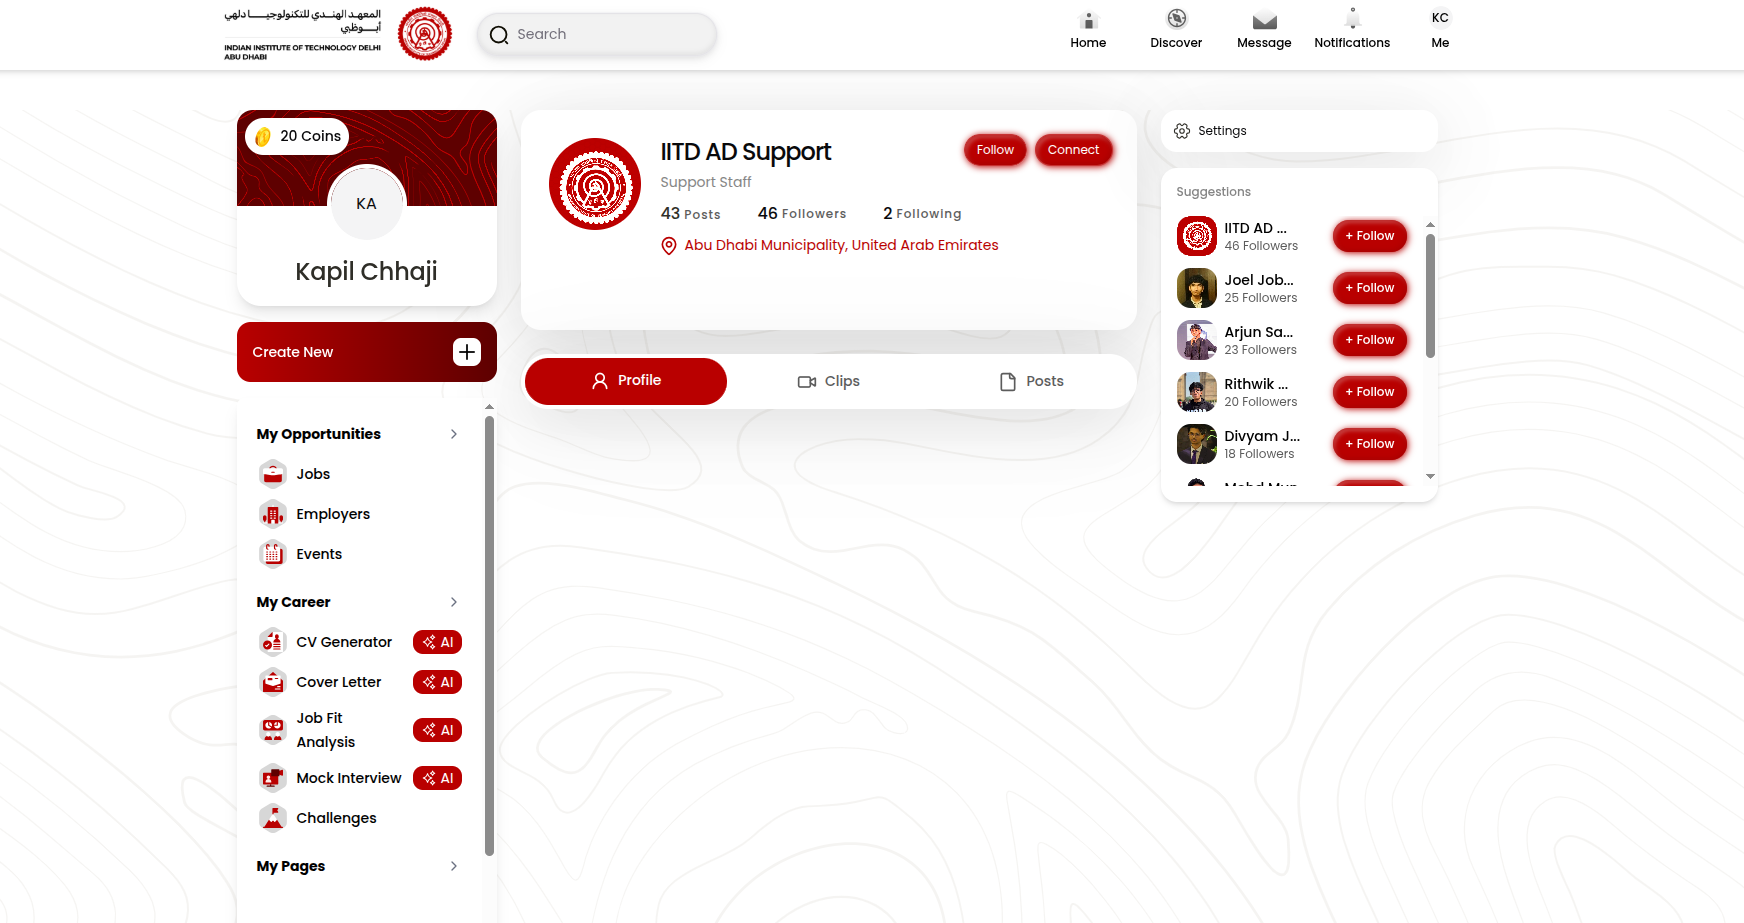
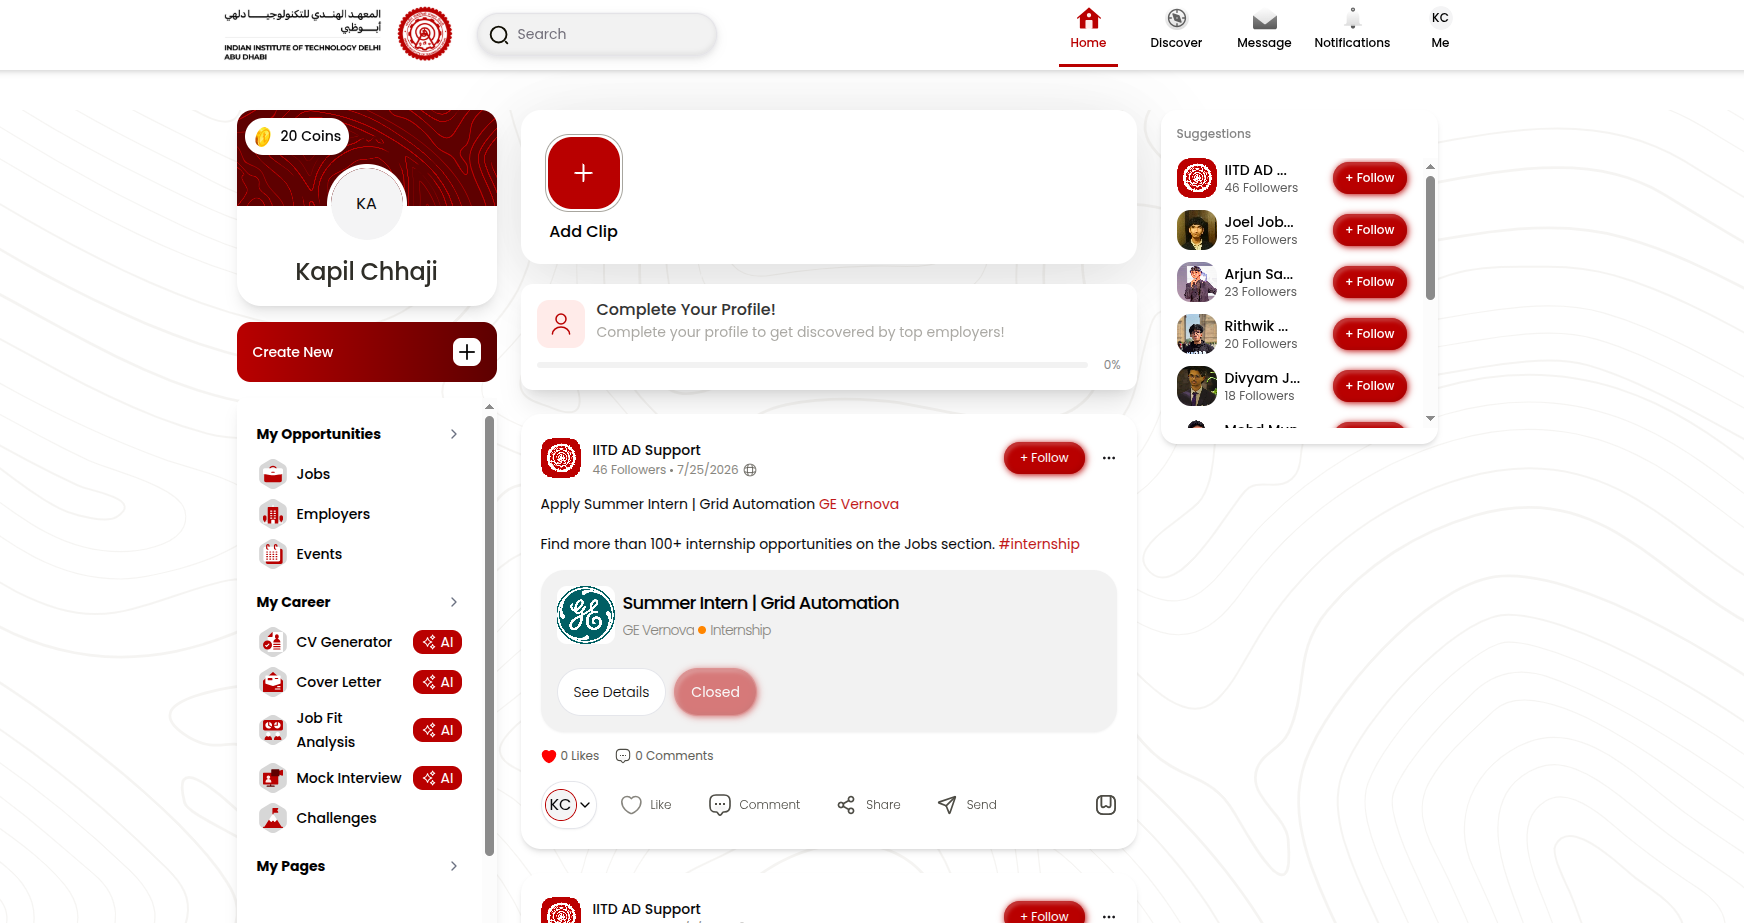
Update Site source

diff --git a/app/page.tsx b/app/page.tsx
@@ -11,6 +11,7 @@ type Project = {
   id: string; number: string; name: string; category: string; description: string;
   image: string; imageAlt?: string; imageFrame?: "portrait"; screenshot?: boolean; color: string; tags: string[]; platforms: string[]; highlight: string;
   summary: string; features: string[]; stack: string[];
+  gallery?: { src: string; alt: string; caption: string; width: number; height: number }[];
 };
 
 const projects: Project[] = [
@@ -25,11 +26,11 @@ const projects: Project[] = [
   },
   {
     id: "livescore", number: "02", name: "LiveScorebyKickScore", category: "CLOSER TO THE GAME",
-    description: "Real-time scores. Real communities. 20K+ users.", image: "/assets/kickscore.png", color: "navy",
+    description: "Real-time scores. Real communities. 50k users.", image: "/assets/kickscore.png", color: "navy",
     imageAlt: "KickScore fantasy football screen showing a team lineup on the pitch beneath the Build Dream Team heading.", imageFrame: "portrait", screenshot: true,
-    tags: ["React Native", "Expo", "Firebase"], platforms: ["mobile", "web"], highlight: "20K+ ANDROID USERS",
+    tags: ["React Native", "Expo", "Firebase"], platforms: ["mobile", "web"], highlight: "50k ANDROID USERS",
     summary: "A live sports and entertainment app bringing football and basketball updates, personalised feeds, and fan communities together. Built as the sole developer.",
-    features: ["Shipped to 20K+ Android and 100+ iOS users, reaching the Android milestone organically with zero paid acquisition.", "Delivered real-time scores using optimised API polling and efficient Redux Toolkit state management.", "Built follow relationships, personalised feeds, and club-based communities.", "Implemented one-to-one, group, and club chat with Firebase and FCM notifications, plus Firebase Analytics and AdMob monetisation."],
+    features: ["Shipped to 50k Android and 100+ iOS users, reaching the Android milestone organically with zero paid acquisition.", "Delivered real-time scores using optimised API polling and efficient Redux Toolkit state management.", "Built follow relationships, personalised feeds, and club-based communities.", "Implemented one-to-one, group, and club chat with Firebase and FCM notifications, plus Firebase Analytics and AdMob monetisation."],
     stack: ["React Native", "Expo", "TypeScript", "Redux Toolkit", "Firebase", "AdMob"],
   },
   {
@@ -44,7 +45,8 @@ const projects: Project[] = [
   {
     id: "career", number: "04", name: "IIT Abu Dhabi Career Platform", category: "CONNECTING WHAT’S NEXT",
     description: "A shared space for careers, connections, and opportunity.", image: "/assets/iit-abu-dhabi.png", color: "blue",
-    imageAlt: "IIT Abu Dhabi career platform showing a support profile, job links, career tools, and suggested connections.", screenshot: true,
+    imageAlt: "IIT Abu Dhabi home feed showing an internship opportunity, profile completion, career tools, and suggested connections.", screenshot: true,
+    gallery: [{ src: "/assets/iit-abu-dhabi-profile.png", alt: "IIT Abu Dhabi support profile with follow and connect buttons, career tools, and suggested connections.", caption: "Profile and connections", width: 1744, height: 923 }],
     tags: ["Next.js", "TypeScript", "Firebase"], platforms: ["web"], highlight: "CAREERS · COMMUNITY · CONNECTIONS",
     summary: "A career and community platform connecting students, recruiters, and administrators. Contributed to the full-stack platform and its communication features.",
     features: ["Contributed to a full-stack career platform built with Next.js, React, and TypeScript.", "Implemented Firebase Realtime Database chat and FCM push notifications, sharing messaging patterns with the mobile apps.", "Integrated Firebase Auth with role-based access for students, recruiters, and admins.", "Used JWT session management to support authenticated platform experiences."],
@@ -109,7 +111,7 @@ function HeroVisual() {
         <div className="score-community"><div className="community-avatars"><i>J</i><i>A</i><i>R</i></div><span>Big game. Bigger conversations.<small>Join your club’s conversation →</small></span></div>
         <div className="score-bottom"><span><Globe2 size={15} /><small>Discover</small></span><span><Radio size={15} /><small>Live</small></span><span><Layers3 size={15} /><small>Clubs</small></span></div>
       </div>
-      <div className="float-badge users-badge"><span className="badge-icon"><Sparkles size={18} /></span><div><strong>20K+</strong><span>users and counting</span></div><span className="mini-chart">▂▃▅▆▇</span></div>
+      <div className="float-badge users-badge"><span className="badge-icon"><Sparkles size={18} /></span><div><strong>50k</strong><span>users and counting</span></div><span className="mini-chart">▂▃▅▆▇</span></div>
       <div className="float-badge platform-badge"><div className="platform-symbol"><Code2 size={17} /></div><div><strong>One codebase.</strong><span>Endless possibilities.</span></div></div>
       <span className="art-caption">A FEW PIXELS. A LOT OF POSSIBILITY.</span>
     </div>
@@ -138,7 +140,7 @@ function ProjectDialog({ project, onClose }: { project: Project; onClose: () => 
       <div className="dialog-inner">
         <button ref={closeRef} className="dialog-close icon-button" onClick={onClose} aria-label="Close project details"><X size={22} /></button>
         <div className={`dialog-image ${project.color}${project.screenshot ? " project-screenshot" : ""}`}><ProjectImage project={project} /></div>
-        <div className="dialog-copy"><span className="eyebrow">PROJECT {project.number} / {project.category}</span><h2 id="project-title">{project.name}</h2><p className="dialog-summary">{project.summary}</p><h3>What I worked on</h3><ul>{project.features.map(feature => <li key={feature}><Check size={16} /><span>{feature}</span></li>)}</ul><h3>Built with</h3><div className="tags">{project.stack.map(tag => <span key={tag}>{tag}</span>)}</div>{!project.screenshot && <p className="illustration-note">Interface illustrations are conceptual; project details are based on my production work.</p>}<a className="button button-dark" href={`mailto:pramodchakraworty618@gmail.com?subject=${encodeURIComponent(`Let’s talk about ${project.name}`)}`}>Let’s talk about this project<ArrowUpRight size={17} /></a></div>
+        <div className="dialog-copy"><span className="eyebrow">PROJECT {project.number} / {project.category}</span><h2 id="project-title">{project.name}</h2><p className="dialog-summary">{project.summary}</p><h3>What I worked on</h3><ul>{project.features.map(feature => <li key={feature}><Check size={16} /><span>{feature}</span></li>)}</ul><h3>Built with</h3><div className="tags">{project.stack.map(tag => <span key={tag}>{tag}</span>)}</div>{project.gallery && <div className="project-gallery">{project.gallery.map(image => <figure key={image.src}><img src={image.src} alt={image.alt} width={image.width} height={image.height} loading="lazy" /><figcaption>{image.caption}</figcaption></figure>)}</div>}{!project.screenshot && <p className="illustration-note">Interface illustrations are conceptual; project details are based on my production work.</p>}<a className="button button-dark" href={`mailto:pramodchakraworty618@gmail.com?subject=${encodeURIComponent(`Let’s talk about ${project.name}`)}`}>Let’s talk about this project<ArrowUpRight size={17} /></a></div>
       </div>
     </dialog>
   );
@@ -253,7 +255,7 @@ export default function Home() {
           <div className="container experience-grid">
             <div className="experience-heading" data-reveal><span className="eyebrow"><span className="tiny-dot" />THE JOURNEY SO FAR / 04</span><h2>Learning.<br />Building.<br /><em>Shipping.</em></h2><p>Every release is a lesson.<br />Every challenge, a chance to grow.</p><a className="button button-outline-light" href="/Pramod_Chakraworty_Resume.pdf" download>Get the full résumé <ArrowDownToLine size={16} /></a></div>
             <div className="timeline">
-              <article className="timeline-item" data-reveal><div className="timeline-marker"><span /></div><div className="timeline-top"><span className="timeline-label">PROFESSIONAL EXPERIENCE</span><span className="experience-pill">1.6 years</span></div><h3>Software Developer</h3><p className="company">Ideal IT Techno Pvt. Ltd. <ArrowUpRight size={15} /></p><span className="timeline-location">Indore, India · On-site</span><p className="timeline-text">Building production apps with React Native & Next.js, taking ownership from the first architectural decision to release day.</p><ul className="experience-points"><li><ChevronRight size={15} />Shipped apps reaching 20K+ active users.</li><li><ChevronRight size={15} />Built offline readers, real-time chat, and streaming.</li><li><ChevronRight size={15} />Owned releases across four app stores.</li><li><ChevronRight size={15} />Led end-to-end delivery of 3 mobile apps concurrently.</li></ul><div className="tags dark-tags"><span>React Native</span><span>Next.js</span><span>TypeScript</span><span>Firebase</span></div></article>
+              <article className="timeline-item" data-reveal><div className="timeline-marker"><span /></div><div className="timeline-top"><span className="timeline-label">PROFESSIONAL EXPERIENCE</span><span className="experience-pill">1.6 years</span></div><h3>Software Developer</h3><p className="company">Ideal IT Techno Pvt. Ltd. <ArrowUpRight size={15} /></p><span className="timeline-location">Indore, India · On-site</span><p className="timeline-text">Building production apps with React Native & Next.js, taking ownership from the first architectural decision to release day.</p><ul className="experience-points"><li><ChevronRight size={15} />Shipped apps reaching 50k active users.</li><li><ChevronRight size={15} />Built offline readers, real-time chat, and streaming.</li><li><ChevronRight size={15} />Owned releases across four app stores.</li><li><ChevronRight size={15} />Led end-to-end delivery of 3 mobile apps concurrently.</li></ul><div className="tags dark-tags"><span>React Native</span><span>Next.js</span><span>TypeScript</span><span>Firebase</span></div></article>
               <article className="timeline-item education-item" data-reveal><div className="timeline-marker"><span /></div><div className="timeline-top"><span className="timeline-label">WHERE IT STARTED</span><span className="education-date">2019 — 2023</span></div><h3>B.Tech, Information Technology</h3><p className="company">University Institute of Technology, RGPV</p><span className="timeline-location">Indore, India · July 2019 – June 2023</span></article>
             </div>
           </div>

diff --git a/app/globals.css b/app/globals.css
@@ -11,6 +11,7 @@
 .section-heading{display:flex;align-items:flex-end;justify-content:space-between;gap:35px;margin-bottom:38px}.section-heading h2,.about-intro h2{font-size:44px;line-height:1.18;font-weight:500;letter-spacing:-1.9px;margin-top:23px}.section-heading h2 em,.about-intro h2 em{font-family:Georgia,'Times New Roman',serif;font-weight:400;color:var(--green);letter-spacing:-1.4px}.section-heading>p{font-size:12px;line-height:1.9;color:var(--muted);padding-bottom:5px;min-width:252px}.work-toolbar{display:flex;align-items:center;justify-content:space-between;margin-bottom:30px;padding-top:4px}.project-filters{display:flex;gap:5px}.project-filters button{display:flex;align-items:center;gap:13px;border-radius:4px;background:transparent;font-size:10px;font-weight:550;padding:10px 15px;color:#777d70;transition:background .25s,color .25s}.project-filters button span{font-size:8px;opacity:.65}.project-filters button.selected{background:#e4e9db;color:#3f5336}.project-filters button:hover{background:#e9ece2;color:#34442b}.work-note{display:flex;align-items:center;gap:7px;font-size:7px;letter-spacing:1.3px;color:#68745d}.work-note>span{width:4px;height:4px;background:#8ea077;border-radius:50%}.project-grid{display:grid;grid-template-columns:1fr 1fr;column-gap:30px;row-gap:48px}.project-card{min-width:0}.project-art{position:relative;width:100%;aspect-ratio:1.44;border-radius:10px;overflow:hidden;display:block;text-align:left;background:#dde7d0}.project-art>img{width:100%;height:100%;object-fit:cover;transition:transform .7s cubic-bezier(.25,.6,.25,1);mix-blend-mode:multiply}.sage{background:#e0e9d6}.lavender{background:#e4dfec}.peach{background:#eedfd5}.blue{background:#dde7e9}.project-number{position:absolute;top:21px;left:23px;font-size:9px;font-weight:600;z-index:3;color:#58674f}.project-highlight{position:absolute;right:21px;top:23px;font-size:6px;letter-spacing:1.1px;z-index:3;color:#6f7669}.project-view{position:absolute;bottom:20px;right:20px;display:flex;align-items:center;gap:15px;background:#f8f8f1ed;padding:12px 15px;border-radius:5px;box-shadow:0 5px 12px #242b2410;font-size:10px;font-weight:600;transform:translateY(70px);transition:transform .3s}.project-art:hover>img,.project-art:focus-visible>img{transform:scale(1.035)}.project-art:hover .project-view,.project-art:focus-visible .project-view{transform:translateY(0)}.project-info{display:flex;align-items:center;justify-content:space-between;margin-top:22px;gap:15px}.project-category{font-size:7px;letter-spacing:1.6px;color:#66715c;font-weight:600}.project-info h3{font-size:21px;font-weight:600;letter-spacing:-.75px;margin-top:9px}.project-info h3 button{background:transparent;text-align:left;padding:0}.project-info h3 button:hover{color:var(--green)}.project-arrow{border:1px solid #d7ddce;width:37px;height:37px;border-radius:50%;flex-shrink:0;transition:background .25s,transform .25s}.project-arrow svg{width:18px}.project-arrow:hover{background:var(--sage);transform:rotate(6deg)}.project-description{font-size:12px;color:#66715d;line-height:1.7;margin-top:9px}.project-tags{margin-top:15px}.project-tags>span{font-size:8px;padding:5px 9px;border-color:#e0e3d8;color:#65705b}.project-footnote{font-size:9px;color:#68735d;text-align:center;margin-top:45px}
 .navy{background:#001126}.black{background:#000}.project-art.project-screenshot{padding:40px 12px 12px}.project-art.project-screenshot>img{display:block;object-fit:contain;mix-blend-mode:normal}.project-screenshot .project-number,.project-screenshot .project-highlight{color:#d6deea}.dialog-image.project-screenshot{height:auto}.dialog-image.project-screenshot>img{display:block;height:auto;max-height:560px;object-fit:contain}
 .project-portrait{display:block;height:100%;aspect-ratio:374/806;margin-inline:auto;overflow:hidden}.project-portrait>img{display:block;width:100%;height:100%;object-fit:cover;object-position:49.93007% 50%}.dialog-image .project-portrait{height:560px;max-height:70svh}.project-screenshot.blue .project-number,.project-screenshot.blue .project-highlight{color:#58674f}
+.project-gallery{display:grid;gap:16px;margin-top:28px}.project-gallery figure{margin:0;overflow:hidden;border:1px solid var(--line);border-radius:8px;background:#fff}.project-gallery img{display:block;width:100%;height:auto}.project-gallery figcaption{padding:10px 12px;font-size:10px;color:var(--muted)}
 /* About */
 .about-section{background:#e9eddf;border-top:1px solid #e3e7d8;border-bottom:1px solid #e3e7d8;padding:90px 0 55px}.about-grid{display:grid;grid-template-columns:1fr 1fr;column-gap:90px;row-gap:57px}.about-intro h2{font-size:42px;margin-top:26px}.about-signature{display:flex;align-items:center;gap:37px;margin-top:36px;color:#6d805b}.about-signature>span{font-family:Georgia,serif;font-size:45px;letter-spacing:-3px;font-style:italic;transform:rotate(-8deg)}.about-signature>svg{transform:rotate(20deg)}.about-location{display:flex;align-items:center;gap:8px;font-size:8px;letter-spacing:1.2px;color:#637155;margin-top:32px}.about-copy{padding-top:36px;max-width:440px}.about-copy .about-lead{font-size:24px;font-weight:500;color:#3b4833;line-height:1.45;letter-spacing:-.6px;margin-bottom:21px}.about-lead>span{color:#71845d}.about-copy>p{font-size:13px;line-height:1.95;color:#5e6a53;margin-bottom:15px}.about-copy .text-link{margin-top:10px;font-size:10px;gap:22px}.stats-row{grid-column:1/-1;display:grid;grid-template-columns:repeat(3,1fr) .85fr;border-top:1px solid #cfd7c3;padding-top:35px}.stats-row>div{display:flex;flex-direction:column;border-right:1px solid #d5ddca;padding-left:40px}.stats-row>div:first-child{padding-left:0}.stats-row>div>strong{font-size:46px;font-weight:500;letter-spacing:-2px;line-height:1.3}.stats-row>div>span{font-size:9px;color:#5f6d51;margin-top:7px}.stats-row>div.stats-note{flex-direction:row;border:0;gap:14px;align-items:center;padding-left:33px}.stats-note>svg{color:#8d9d77;flex-shrink:0}.stats-row>div.stats-note>span{font-size:10px;line-height:1.8;margin:0}.stats-note strong{font-weight:500;color:#556447}
 /* Skills */

diff --git a/app/layout.tsx b/app/layout.tsx
@@ -8,7 +8,7 @@ export const metadata: Metadata = {
   description: "Software developer in Indore, India. I build thoughtful mobile, web, and desktop experiences with React Native, Next.js, and TypeScript. Explore my work, experience, and skills.",
   openGraph: {
     title: "Pramod Chakraworty — Thoughtful code. Real-world impact.",
-    description: "React Native & Next.js developer. Cross-platform experiences. 20K+ users.",
+    description: "React Native & Next.js developer. Cross-platform experiences. 50k users.",
     type: "website",
     locale: "en_IN",
     images: [{ url: "/opengraph-image.svg", width: 1200, height: 630, alt: "Pramod Chakraworty — Software Developer" }],
